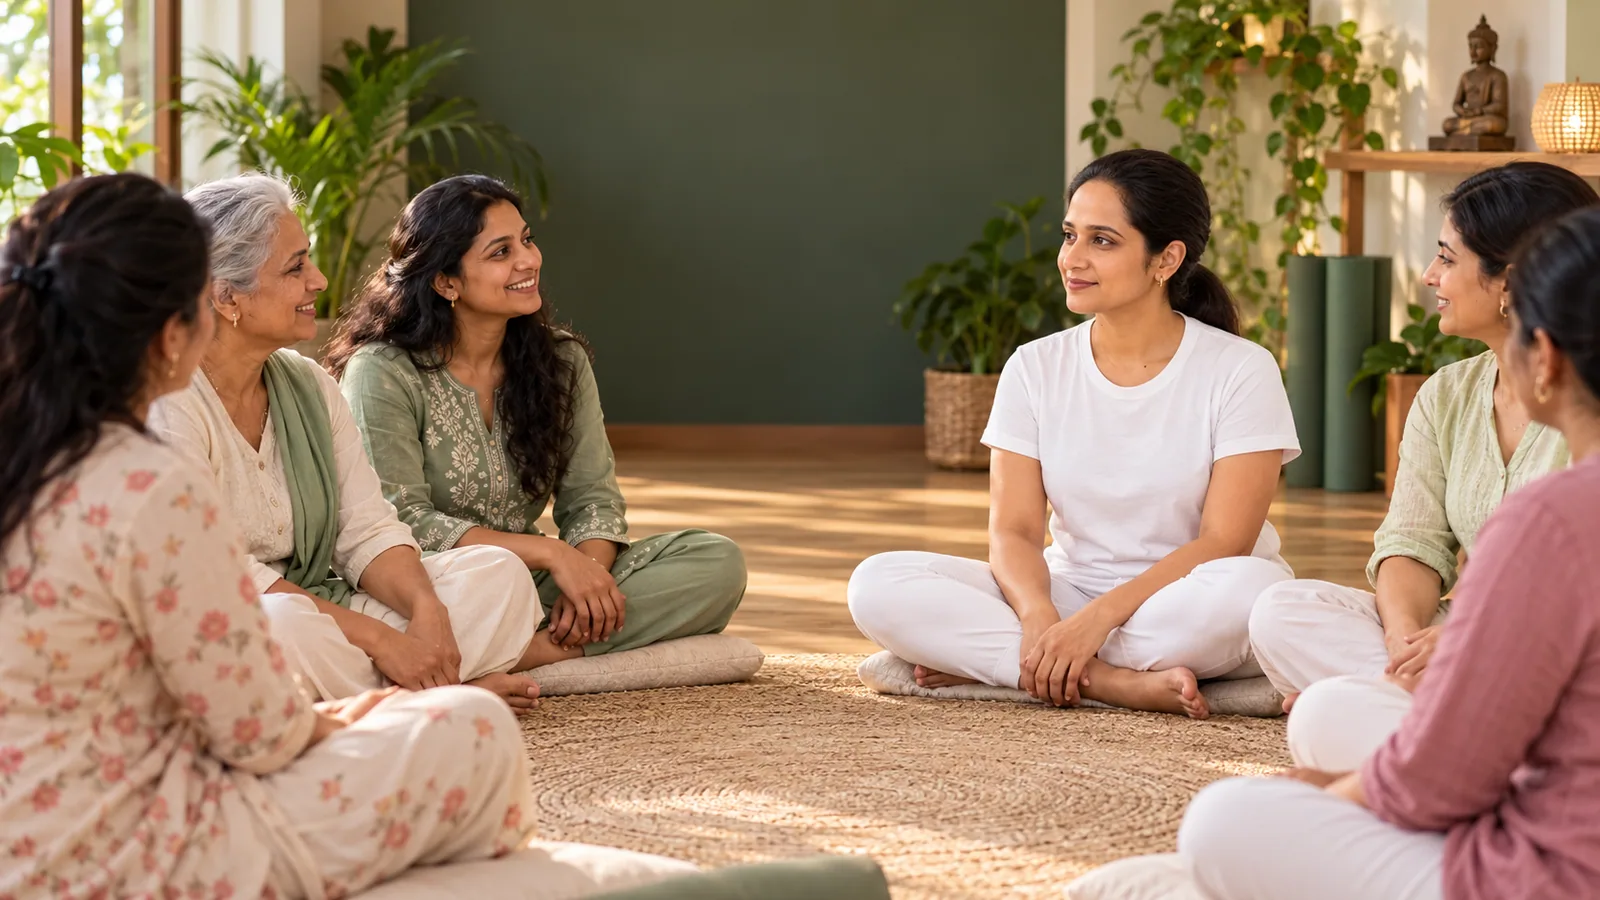
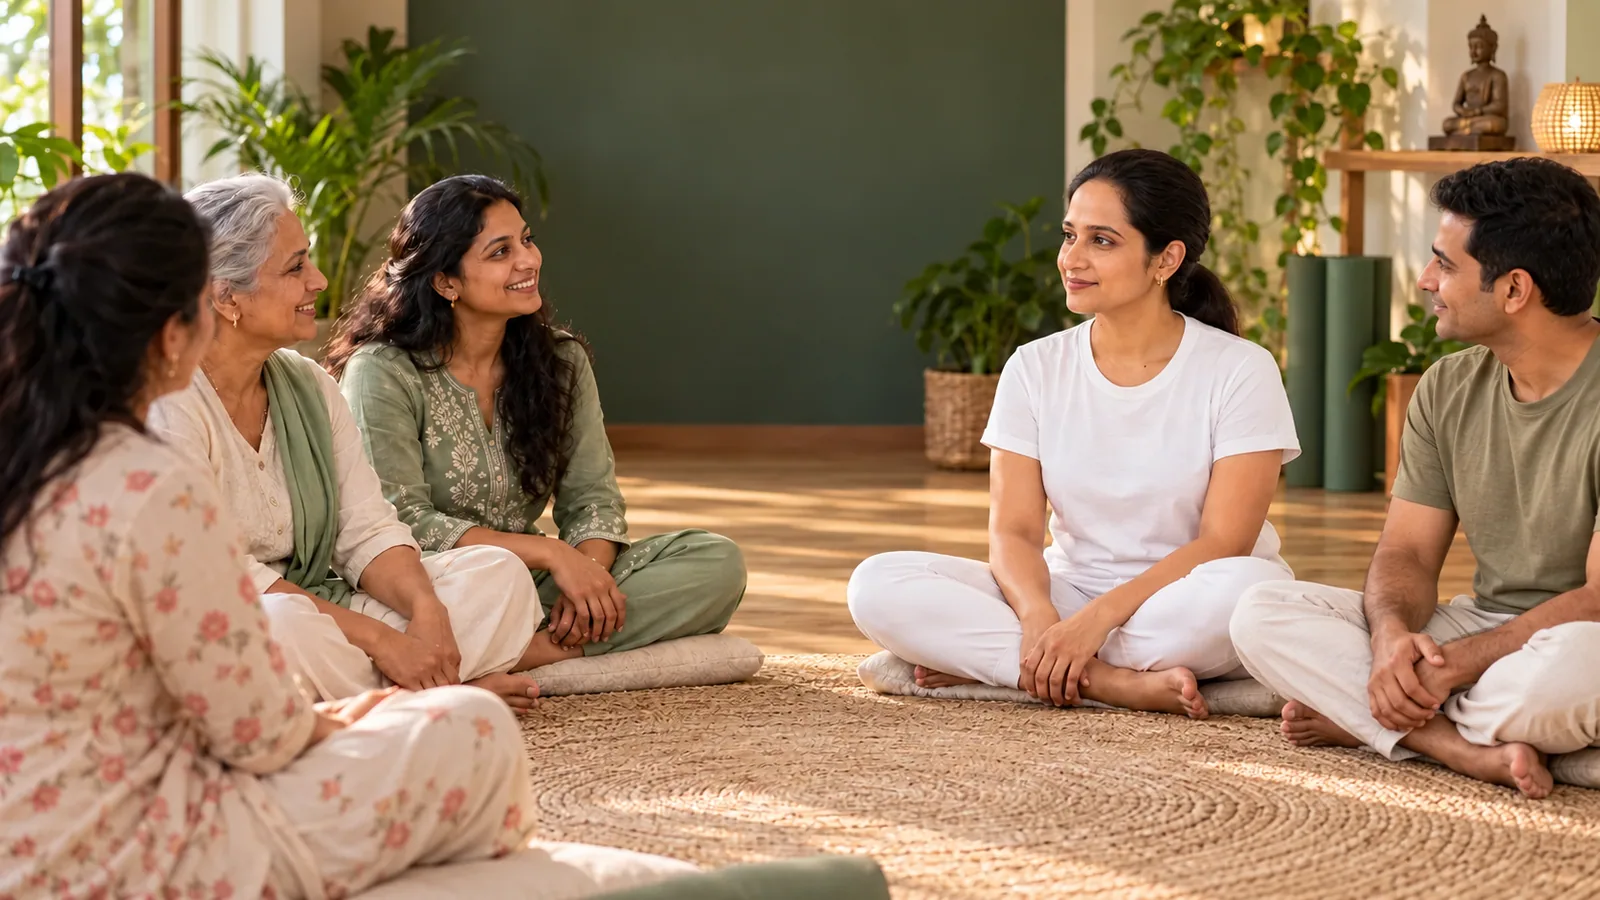
Update site call-to-action buttons

diff --git a/src/components/Navbar.vue b/src/components/Navbar.vue
@@ -32,26 +32,12 @@
           :href="waLink"
           target="_blank"
           rel="noopener noreferrer"
-          class="hidden lg:inline-flex items-center gap-2 border border-forest-900/20 hover:border-forest-900/40 text-forest-900 text-sm font-600 px-3.5 py-2.5 rounded-full transition-colors"
+          class="hidden sm:inline-flex items-center gap-2 bg-gold-500 hover:bg-gold-400 text-forest-950 text-sm font-700 px-4 py-2.5 rounded-full transition-colors"
         >
           <svg class="w-3.5 h-3.5" fill="currentColor" viewBox="0 0 24 24">
             <path d="M6.6 10.8c1.4 2.8 3.8 5.1 6.6 6.6l2.2-2.2c.3-.3.7-.4 1-.2 1.1.4 2.3.6 3.6.6.6 0 1 .4 1 1V20c0 .6-.4 1-1 1-9.4 0-17-7.6-17-17 0-.6.4-1 1-1h3.5c.6 0 1 .4 1 1 0 1.3.2 2.5.6 3.6.1.3 0 .7-.2 1L6.6 10.8z" />
           </svg>
           <span>WhatsApp</span>
-        </a>
-
-        <a
-          :href="site.registrationUrl"
-          target="_blank"
-          rel="noopener noreferrer"
-          class="hidden sm:inline-flex items-center gap-2 bg-gold-500 hover:bg-gold-400 text-forest-950 text-sm font-700 px-4 py-2.5 rounded-full transition-colors"
-        >
-          <svg viewBox="0 0 24 24" fill="none" stroke="currentColor" class="h-4 w-4" stroke-width="2" stroke-linecap="round" stroke-linejoin="round" aria-hidden="true">
-            <path d="M16 21v-2a4 4 0 0 0-4-4H6a4 4 0 0 0-4 4v2" />
-            <circle cx="9" cy="7" r="4" />
-            <path d="M19 8v6M22 11h-6" />
-          </svg>
-          <span>Register Now</span>
         </a>
 
         <button
@@ -107,19 +93,10 @@
 
       <div class="mt-8 space-y-3">
         <a
-          :href="site.registrationUrl"
-          target="_blank"
-          rel="noopener noreferrer"
-          class="block w-full rounded-full bg-gold-500 px-4 py-3 text-center text-sm font-700 text-forest-950 hover:bg-gold-400"
-          @click="closeMenu"
-        >
-          Register Now
-        </a>
-        <a
           :href="waLink"
           target="_blank"
           rel="noopener noreferrer"
-          class="block w-full rounded-full border border-forest-900/20 px-4 py-3 text-center text-sm font-600 text-forest-900 hover:border-forest-900/40"
+          class="block w-full rounded-full bg-gold-500 px-4 py-3 text-center text-sm font-700 text-forest-950 hover:bg-gold-400"
           @click="closeMenu"
         >
           Chat on WhatsApp
